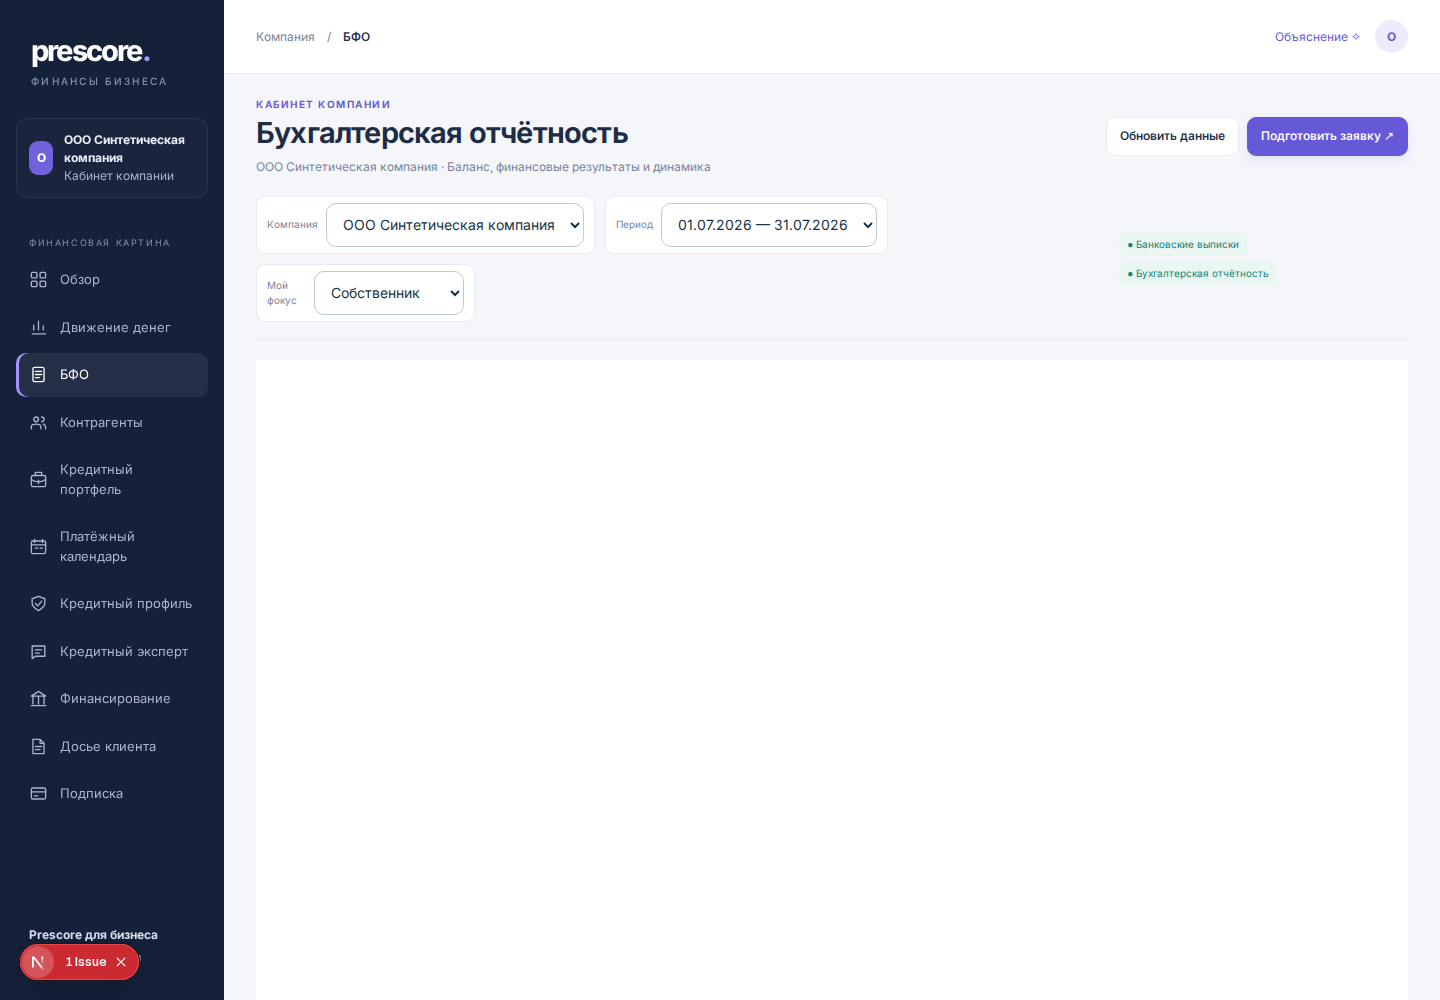
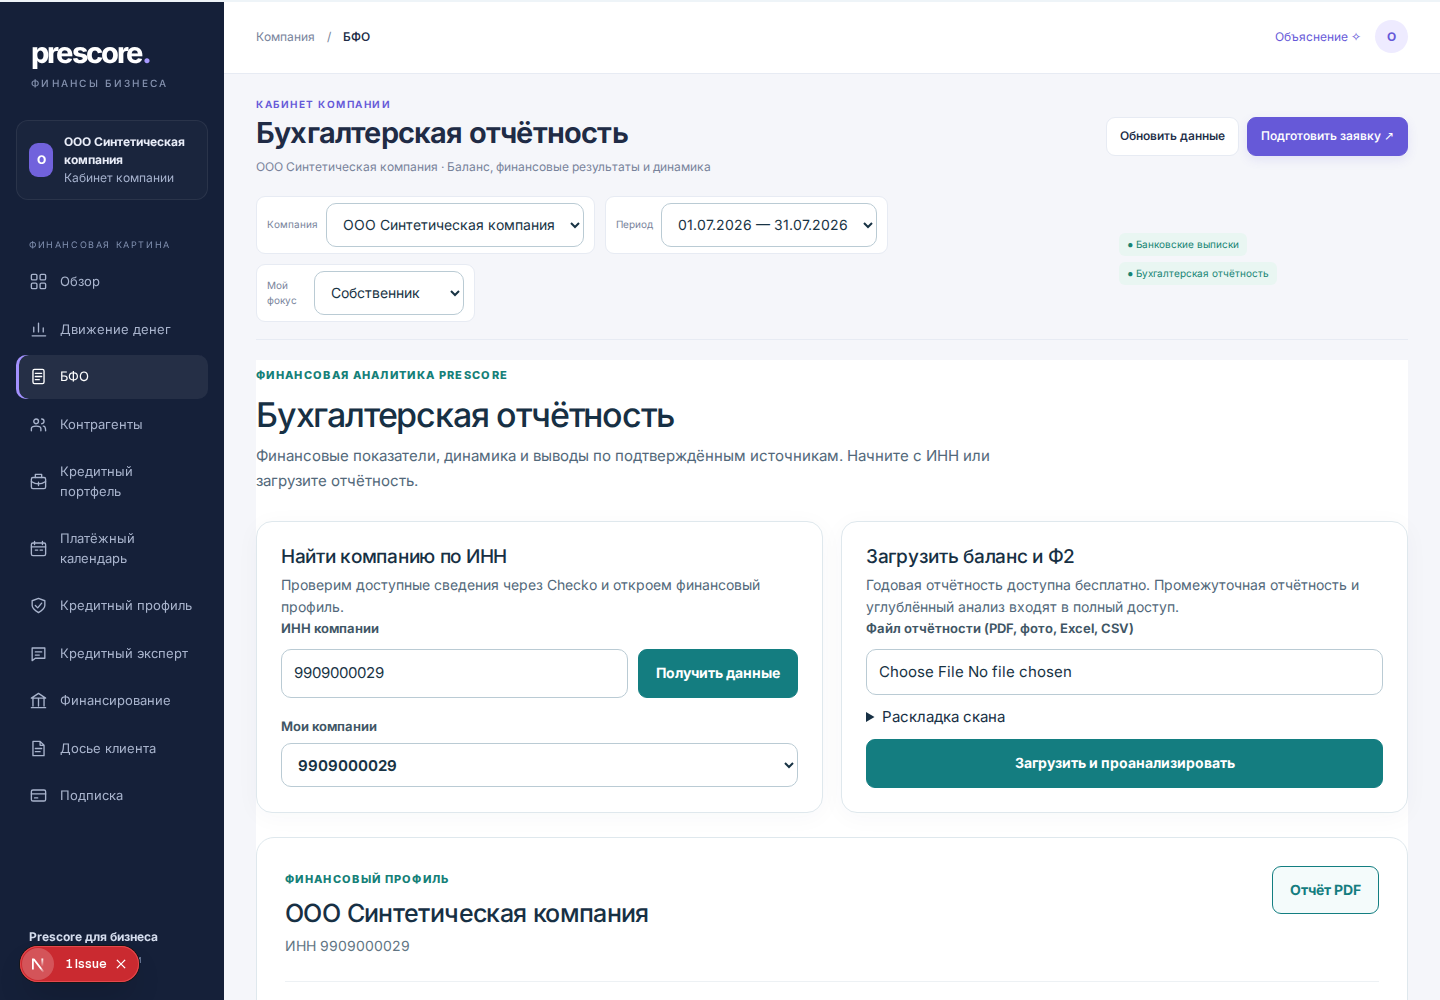
Display the BFO intake and saved financial results above the empty workspace [skip ci]

diff --git a/app/components/workspace/company-sources.tsx b/app/components/workspace/company-sources.tsx
@@ -180,7 +180,7 @@ export function CompanySources({view,id,bankInn,bank,openBank,onCompany,onSource
     </section>
    </div>
    {profile&&<section className="pc-bfo-dashboard" aria-label="Дашборд бухгалтерской отчётности">
-    <div className="pc-bfo-identity"><div><span>ФИНАНСОВЫЙ ПРОФИЛЬ</span><h2>{profile.publicProfile?.company.name||'Компания · ИНН '+company?.inn}</h2><p>ИНН {company?.inn}{profile.publicProfile?.company.region?' · '+profile.publicProfile.company.region:''}{profile.publicProfile?.company.status?' · '+profile.publicProfile.company.status:''}</p></div>
+    <div className="pc-bfo-identity"><div><span>ФИНАНСОВЫЙ ПРОФИЛЬ</span><h2>{profile.publicProfile?.company.name||profile.versions[0]?.name||'Компания · ИНН '+company?.inn}</h2><p>ИНН {company?.inn}{profile.publicProfile?.company.region?' · '+profile.publicProfile.company.region:''}{profile.publicProfile?.company.status?' · '+profile.publicProfile.company.status:''}</p></div>
      {company&&(period||profile.publicProfile)&&<button type="button" disabled={busy} onClick={async()=>{setBusy(true);setError('');try{const report=await read<{snapshot:string}>('/api/dossier',{method:'POST',headers:{'Content-Type':'application/json'},body:JSON.stringify({action:'issue-report',id:company.id})});router.push('/dashboard/report-v2?'+new URLSearchParams({dossierId:company.id,snapshotId:report.snapshot,print:'1'}));}catch(e){setError((e as Error).message);setBusy(false);}}}>Отчёт PDF</button>}
     </div>
     {period&&<div className="pc-bfo-period"><label htmlFor="bfo-reporting-period">Отчётный период</label><select id="bfo-reporting-period" value={period.id} onChange={e=>setYear(e.target.value)}>{years.map(p=><option key={p.id} value={p.id}>{p.period.from||'Дата не указана'} — {p.period.to||p.period.asOf||'Дата не указана'}</option>)}</select><span>{period.period.kind==='ANNUAL'?'Годовая отчётность':'Промежуточная отчётность'}</span></div>}

diff --git a/app/components/workspace/approved/live-shell.tsx b/app/components/workspace/approved/live-shell.tsx
@@ -144,7 +144,10 @@ export function ClientShell(p: Workspace) {
 export function LivePage({ children }: { children: ReactNode }) {
   const c = useContext(ScreenContext);
   if (!c?.renderPage || !Object.hasOwn(pages, c.view)) return <>{children}</>;
-  if (['obligations', 'bfo', 'calendar', 'analyst'].includes(c.view)) return <div className="ws">{children}</div>;
+  if (['obligations', 'bfo', 'calendar', 'analyst'].includes(c.view)) {
+    if (children == null || typeof children === 'boolean') return null;
+    return <div className="ws">{children}</div>;
+  }
   const page = c.view as Page;
   const billing = page === 'billing',
     ar = page === 'counterparties';
